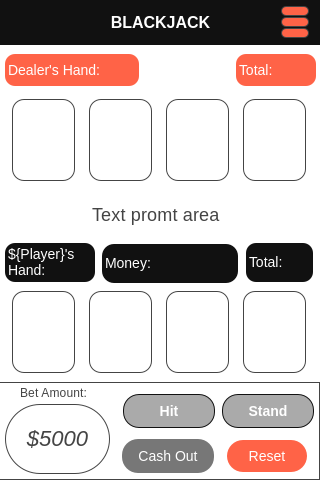
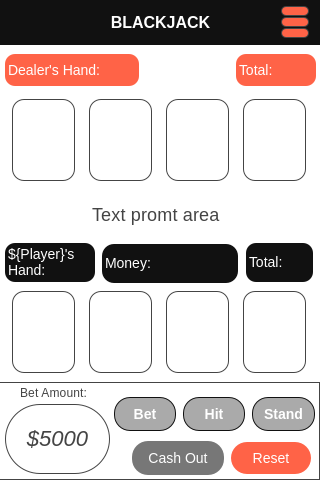
updates to index.html & wireframe

Changed region(s): [[0.3438, 0.8125, 1.0, 1.0]]

diff --git a/index.html b/index.html
@@ -3,9 +3,43 @@
 <head>
     <meta charset="UTF-8">
     <meta name="viewport" content="width=device-width, initial-scale=1.0">
-    <title>Document</title>
+    <title>Blackjack by Shawn</title>
+    <link rel="stylesheet" href="style.css">
 </head>
 <body>
-    
+    <header>
+        <h1>Blackjack</h1>
+        <nav>
+            <a href="#about">About</a>
+            <a href="#rules">Rules</a>
+            <a href="leaderboard">Leaderboard</a>
+        </nav>
+    </header>
+    <div id="gameContainer">
+        <section id="dealerArea">
+            <h2>Dealer's Hand: </h2>
+            <div id="dealerCards" class="cards"></div>
+            <div id="dealerScore">Total: </div>
+        </section>
+        <section id="playerArea">
+            <h2>Player's Hand: </h2>
+            <div id="playerCards" class="cards"></div>
+            <div id="playerMoney">Money: $5000</div>
+            <div id="playerScore">Total: </div>
+            <div class="bettingControls">
+                <label for="betAmount">Bet Amount: </label>
+                <input type="number" id="betAmount" value="50" min="50" max="5000">
+                <button id="betButton">Bet</button>
+            </div>
+            <div class="gameControls">
+                <button id="hitButton">Hit</button>
+                <button id="standButton">Stand</button>
+                <button id="cashOutButton">Cash Out</button>
+                <button id="resetButton">Reset</button>
+            </div>
+        </section>
+        <div id="textPromptArea">Game status and messages will appear here FOR NOW.</div>
+    </div>
+    <script src="main.js"></script>
 </body>
 </html>
